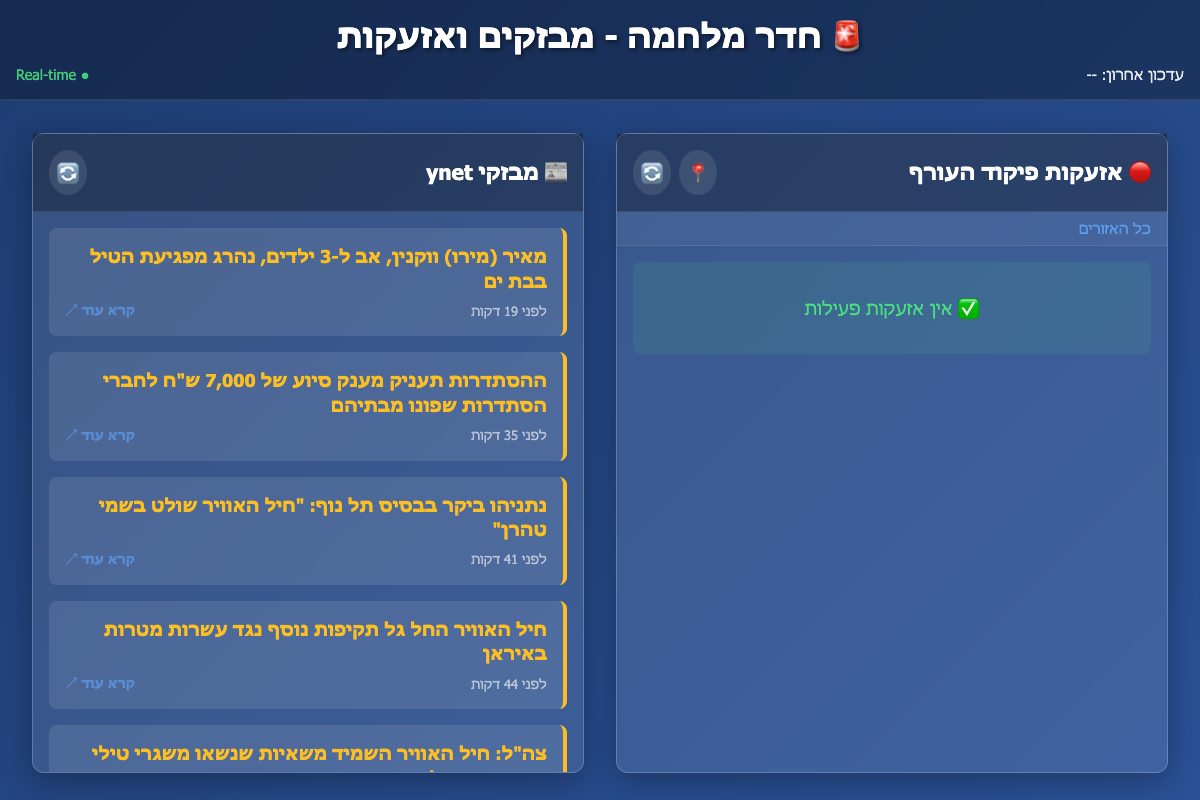
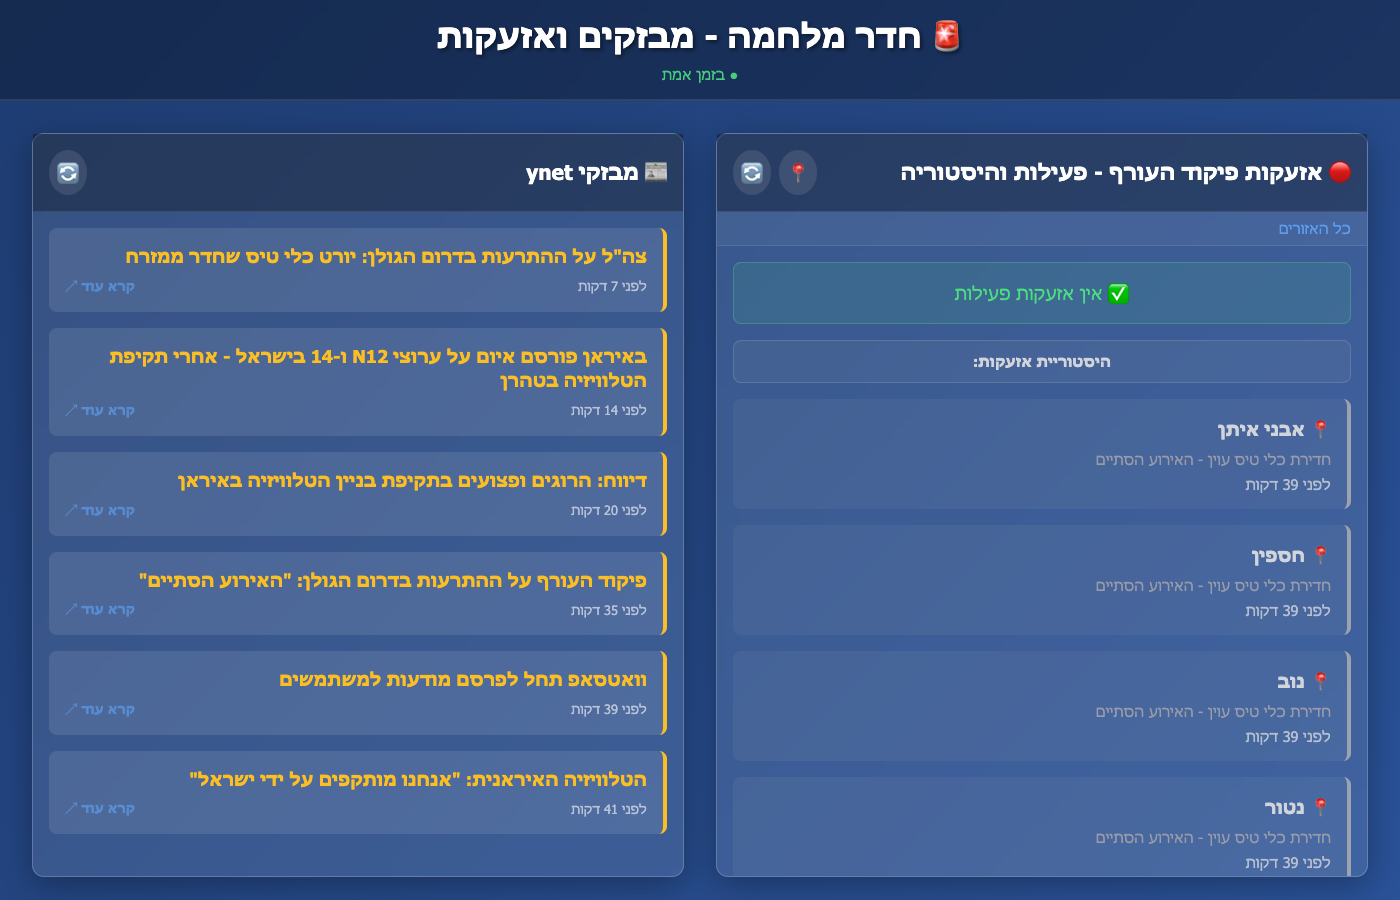
Update README and screenshot to reflect current features
- Add new screenshot showing alert history timeline with 🚨/📍 icons
- Update README to highlight alert history and location filtering
- Document historical OREF API integration and enhanced UX
- Reflect 90% test coverage and comprehensive feature set
- Accurate API endpoints and data sources documentation

diff --git a/README.md b/README.md
@@ -2,20 +2,23 @@
 
 [![CI/CD Pipeline](https://github.com/barlevalon/war-room/actions/workflows/ci.yml/badge.svg)](https://github.com/barlevalon/war-room/actions/workflows/ci.yml)
 
-A real-time web application that aggregates Ynet breaking news and Israeli Homefront Command alerts in a clean, two-column layout with instant WebSocket updates.
+A real-time web application that aggregates Ynet breaking news and Israeli Homefront Command alerts with comprehensive historical data and location filtering.
 
 ![War Room Screenshot](war-room-screenshot.png)
 
 ## Features
 
 - **Real-time Updates**: WebSocket connections with instant push updates (2-second server polling)
+- **Alert History**: Comprehensive timeline showing both active alerts (🚨) and historical events (📍)
+- **Location Filtering**: Dynamic location selector with search and bulk operations
 - **Dual Data Sources**:
   - Ynet breaking news RSS feed
-  - Israeli Homefront Command alerts
-- **Modern UI**: Responsive design with Hebrew RTL support
+  - Israeli Homefront Command current alerts
+  - OREF historical alerts with event timeline
+- **Modern UI**: Responsive design with Hebrew RTL support and status indicators
+- **Smart UX**: Clear active alert status, intuitive location picker with OK button
 - **Caching**: Server-side caching to reduce API calls
 - **Error Handling**: Graceful fallbacks and error messages
-- **Accessibility**: Keyboard shortcuts and screen reader friendly
 
 ## Quick Start
 
@@ -44,7 +47,8 @@ npm run dev
 ## API Endpoints
 
 - `GET /api/ynet` - Fetch latest Ynet breaking news
-- `GET /api/alerts` - Fetch current Homefront Command alerts
+- `GET /api/alerts` - Fetch current and historical alerts (combined timeline)
+- `GET /api/alert-areas` - Fetch available alert locations
 - `GET /api/health` - Health check endpoint
 
 ## Architecture
@@ -68,22 +72,23 @@ npm run dev
 ## Data Sources
 
 - **Ynet RSS**: `https://www.ynet.co.il/Integration/StoryRss1854.xml`
-- **Homefront Alerts**: `https://www.oref.org.il/warningMessages/alert/Alerts.json`
+- **Current Alerts**: `https://www.oref.org.il/warningMessages/alert/Alerts.json`
+- **Historical Alerts**: `https://alerts-history.oref.org.il/Shared/Ajax/GetAlerts.aspx?lang=he`
 - **Alert Areas**: `https://alerts-history.oref.org.il/Shared/Ajax/GetDistricts.aspx?lang=he`
 - **Fallback Alerts**: `https://api.tzevaadom.co.il/notifications`
 
-All data comes directly from official Israeli government sources.
+All data comes directly from official Israeli government sources with real-time updates.
 
-## Features
+## Implementation Status
 
-- ✅ Real-time data fetching
-- ✅ Responsive design
-- ✅ Hebrew RTL support
-- ✅ Error handling
-- ✅ Real-time WebSocket updates with 3-second fallback polling
-- ✅ Visual alerts for recent threats
-- ✅ Auto-refresh on tab focus
-- ✅ Keyboard shortcuts (Ctrl+R to refresh)
+- ✅ Real-time WebSocket updates with fallback polling
+- ✅ Historical alert timeline with OREF integration
+- ✅ Location-based alert filtering with intuitive UI
+- ✅ Active alert status indicators
+- ✅ Responsive design with Hebrew RTL support
+- ✅ Comprehensive test coverage (90% success rate)
+- ✅ CI/CD pipeline with automated testing
+- ✅ Error handling and graceful degradation
 
 ## Browser Support
 
